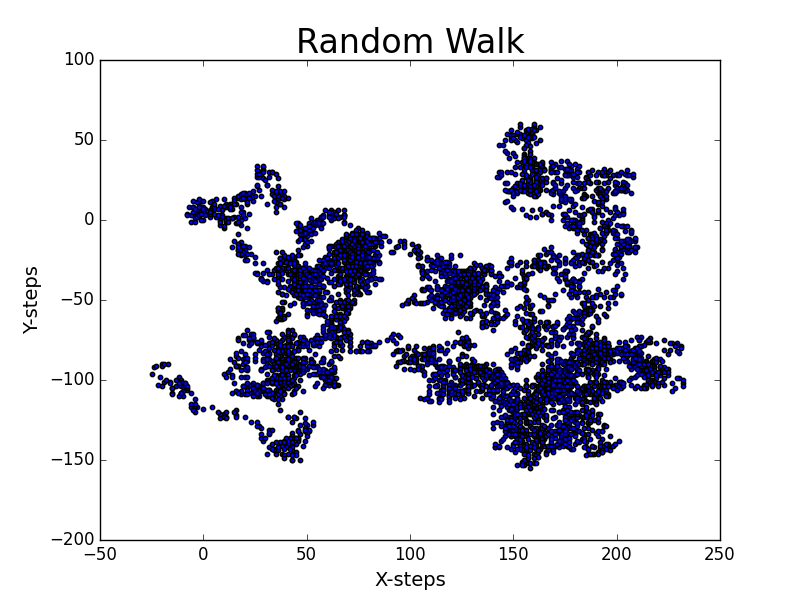
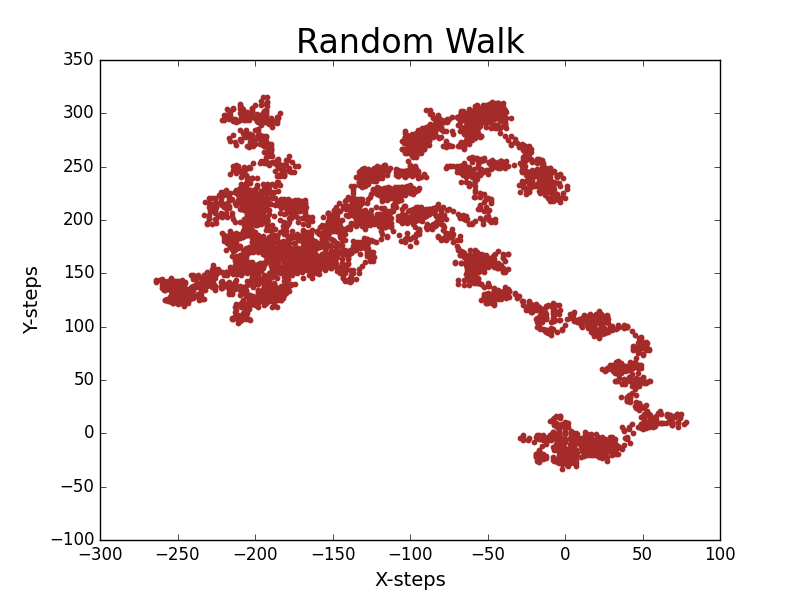
Data Visualization

diff --git a/randomWalk_visual.py b/randomWalk_visual.py
@@ -6,7 +6,7 @@ rw.fill_walk()
 
 plt.style.use("classic")
 fig, ax = plt.subplots()
-ax.scatter(rw.x_values, rw.y_values, s = 10)
+ax.scatter(rw.x_values, rw.y_values, color = "brown", s = 10)
 ax.set_title("Random Walk", fontsize = 24)
 ax.set_xlabel("X-steps", fontsize = 14)
 ax.set_ylabel("Y-steps", fontsize = 14)
